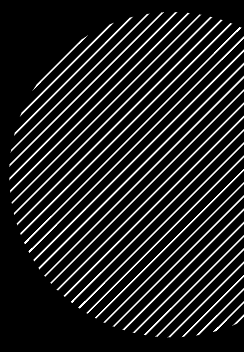
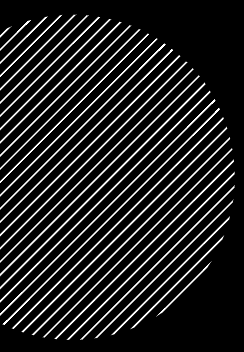
positioning of circle has been edited

diff --git a/scss/style.scss b/scss/style.scss
@@ -30,8 +30,8 @@ img{
       display: block;
       z-index: 0;
       float: left;
-      margin-top: 38%;
-      left: 13.7%;
+      margin-top: 36%;
+      left: 2%;
       position: fixed;
       transform: scale(1.3);
       }

diff --git a/css/style.css b/css/style.css
@@ -186,8 +186,8 @@ img {
     display: block;
     z-index: 0;
     float: left;
-    margin-top: 38%;
-    left: 13.7%;
+    margin-top: 36%;
+    left: 2%;
     position: fixed;
     transform: scale(1.3);
   }
